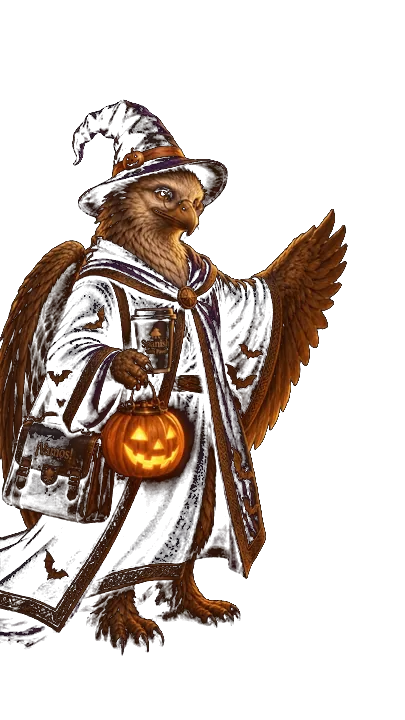
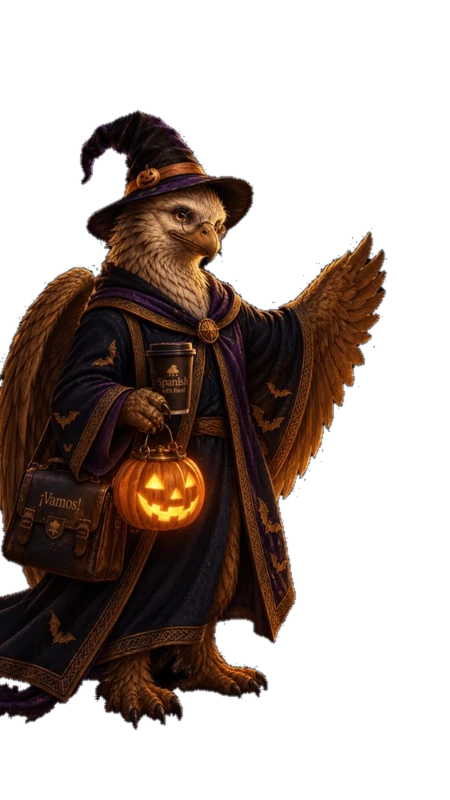
Fix Halloween corner mascots on light backgrounds.
Cleaner alpha knockouts plus navy/amber corner stages so dark figures read on white.

diff --git a/src/app/globals.css b/src/app/globals.css
@@ -347,11 +347,37 @@ html[data-season="halloween"] {
 
 /*
  * Halloween mascots in bottom corners (portrait WebP + alpha).
- * No mix-blend — it washed dark characters out. Soft top fade only.
+ * Light theme: dark navy stages under figures (dark art needs a dark bed).
+ * Dark theme: quieter figures on navy shell.
  */
 html[data-season="halloween"] .hw-app-shell {
   position: relative;
   isolation: isolate;
+}
+
+/*
+ * Light mode: compact Halloween corner pools — dark core under the figure,
+ * warm amber rim so the cutout reads as décor, not a smudge on white.
+ */
+html[data-season="halloween"]:not(.dark) .hw-app-shell {
+  background-image:
+    radial-gradient(
+      ellipse 28% 38% at left 248px bottom,
+      hsl(222 48% 9% / 0.94) 0%,
+      hsl(222 40% 14% / 0.72) 28%,
+      hsl(24 70% 42% / 0.22) 48%,
+      hsl(32 50% 70% / 0.1) 62%,
+      transparent 76%
+    ),
+    radial-gradient(
+      ellipse 28% 38% at 100% 100%,
+      hsl(222 48% 9% / 0.94) 0%,
+      hsl(222 40% 14% / 0.72) 28%,
+      hsl(24 70% 42% / 0.22) 48%,
+      hsl(32 50% 70% / 0.1) 62%,
+      transparent 76%
+    );
+  background-repeat: no-repeat;
 }
 
 html[data-season="halloween"] .hw-app-shell::before,
@@ -359,29 +385,28 @@ html[data-season="halloween"] .hw-app-shell::after {
   content: "";
   position: absolute;
   z-index: 0;
-  /* Portrait slot so the full figure stays sharp */
-  width: min(220px, 20vw);
-  height: min(390px, 36vw);
+  width: min(200px, 18vw);
+  height: min(355px, 32vw);
   pointer-events: none;
-  opacity: 0.62;
+  opacity: 0.94;
   background-repeat: no-repeat;
   background-size: contain;
+  filter: drop-shadow(0 10px 22px hsl(222 45% 8% / 0.35));
 }
 
 html.dark[data-season="halloween"] .hw-app-shell::before,
 html.dark[data-season="halloween"] .hw-app-shell::after {
-  opacity: 0.55;
+  opacity: 0.58;
+  filter: drop-shadow(0 8px 22px hsl(220 50% 4% / 0.35));
 }
 
 html[data-season="halloween"] .hw-app-shell::before {
-  /* Desktop: past open sidebar (260px) so the figure is visible in content */
   left: 248px;
   bottom: 0;
   background-image: url("/seasonal/halloween-mascot-left.webp");
   background-position: left bottom;
-  /* Fade only the upper tip into the page — keep body readable */
-  mask-image: linear-gradient(to top, black 62%, transparent 100%);
-  -webkit-mask-image: linear-gradient(to top, black 62%, transparent 100%);
+  mask-image: linear-gradient(to top, black 78%, transparent 100%);
+  -webkit-mask-image: linear-gradient(to top, black 78%, transparent 100%);
 }
 
 html[data-season="halloween"] .hw-app-shell::after {
@@ -389,8 +414,8 @@ html[data-season="halloween"] .hw-app-shell::after {
   bottom: 0;
   background-image: url("/seasonal/halloween-mascot-right.webp");
   background-position: right bottom;
-  mask-image: linear-gradient(to top, black 62%, transparent 100%);
-  -webkit-mask-image: linear-gradient(to top, black 62%, transparent 100%);
+  mask-image: linear-gradient(to top, black 78%, transparent 100%);
+  -webkit-mask-image: linear-gradient(to top, black 78%, transparent 100%);
 }
 
 html[data-season="halloween"] .hw-app-shell > * {
@@ -398,19 +423,37 @@ html[data-season="halloween"] .hw-app-shell > * {
   z-index: 1;
 }
 
-/* Mobile: true corners, still visible but clear of the tab bar */
 @media (max-width: 767px) {
+  html[data-season="halloween"]:not(.dark) .hw-app-shell {
+    background-image:
+      radial-gradient(
+        ellipse 38% 34% at 0% 100%,
+        hsl(222 48% 9% / 0.88) 0%,
+        hsl(222 40% 14% / 0.55) 34%,
+        hsl(24 70% 42% / 0.16) 52%,
+        transparent 72%
+      ),
+      radial-gradient(
+        ellipse 38% 34% at 100% 100%,
+        hsl(222 48% 9% / 0.88) 0%,
+        hsl(222 40% 14% / 0.55) 34%,
+        hsl(24 70% 42% / 0.16) 52%,
+        transparent 72%
+      );
+  }
+
   html[data-season="halloween"] .hw-app-shell::before,
   html[data-season="halloween"] .hw-app-shell::after {
-    width: min(110px, 30vw);
-    height: min(196px, 52vw);
-    opacity: 0.4;
+    width: min(100px, 28vw);
+    height: min(178px, 48vw);
+    opacity: 0.88;
     bottom: calc(3.75rem + env(safe-area-inset-bottom, 0px));
+    filter: drop-shadow(0 8px 16px hsl(222 45% 8% / 0.28));
   }
 
   html.dark[data-season="halloween"] .hw-app-shell::before,
   html.dark[data-season="halloween"] .hw-app-shell::after {
-    opacity: 0.36;
+    opacity: 0.42;
   }
 
   html[data-season="halloween"] .hw-app-shell::before {
@@ -421,7 +464,7 @@ html[data-season="halloween"] .hw-app-shell > * {
 @media (max-width: 380px) {
   html[data-season="halloween"] .hw-app-shell::before,
   html[data-season="halloween"] .hw-app-shell::after {
-    opacity: 0.32;
+    opacity: 0.72;
     width: 84px;
     height: 150px;
   }
